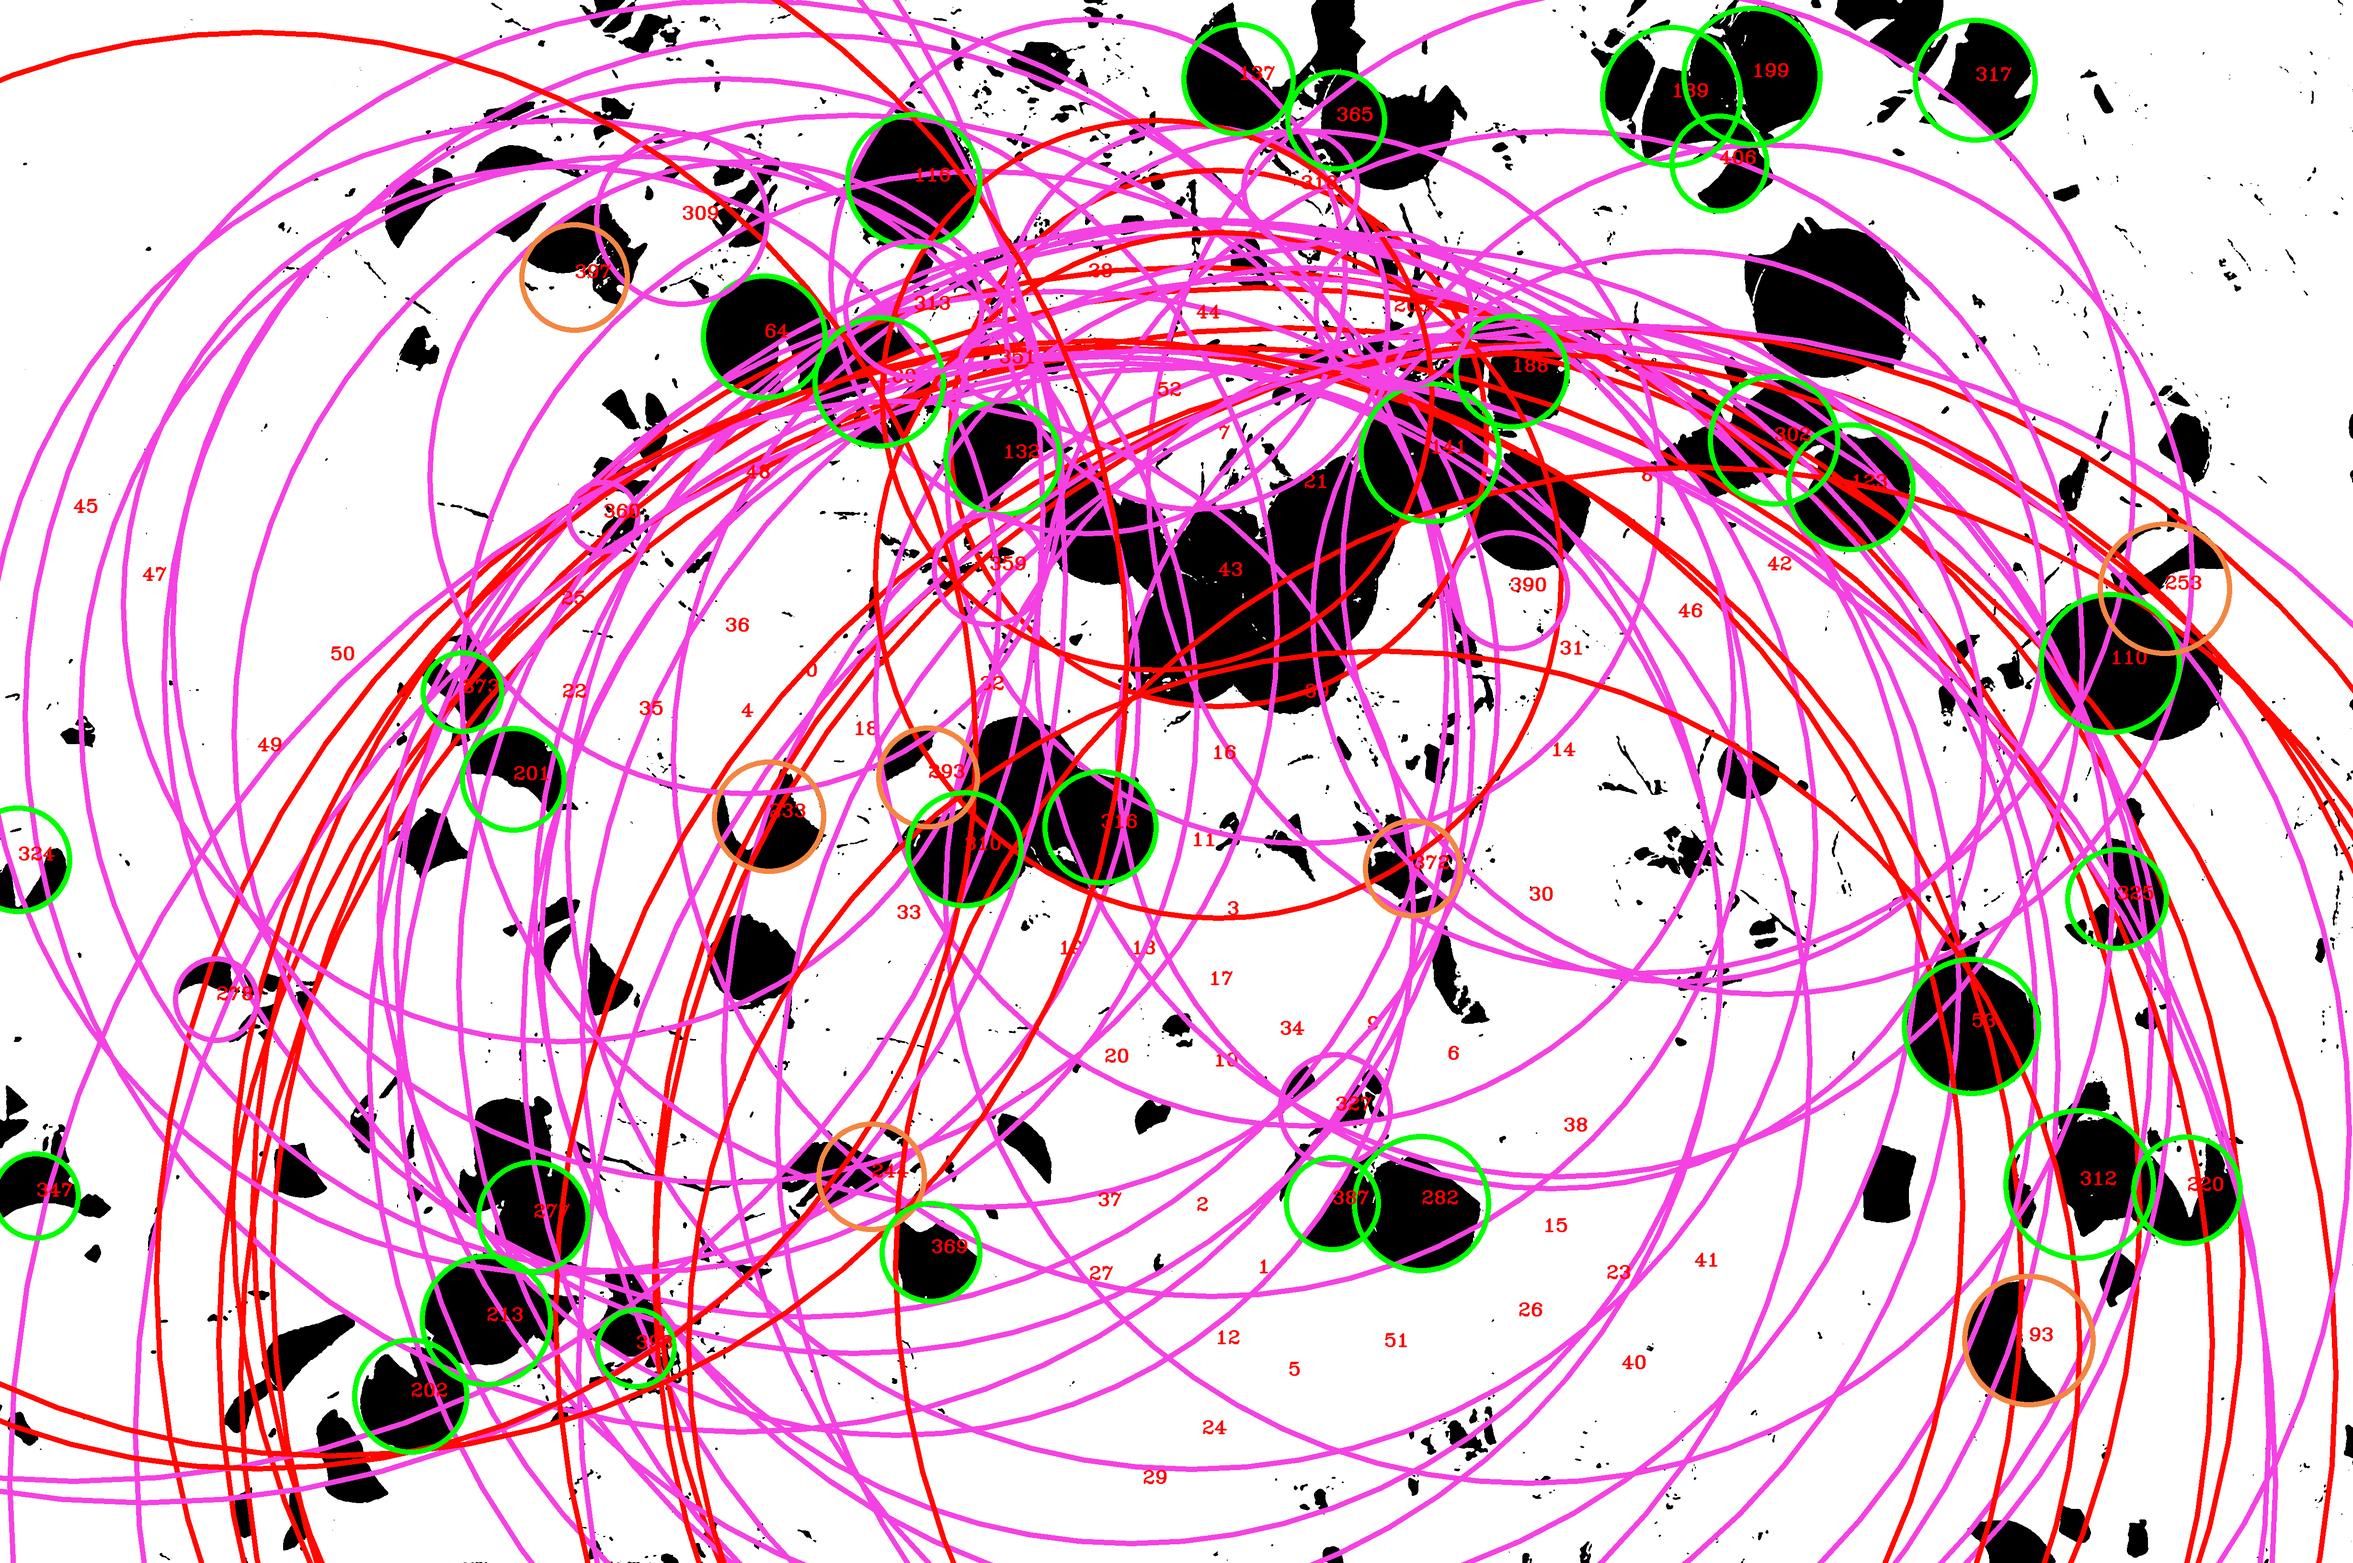
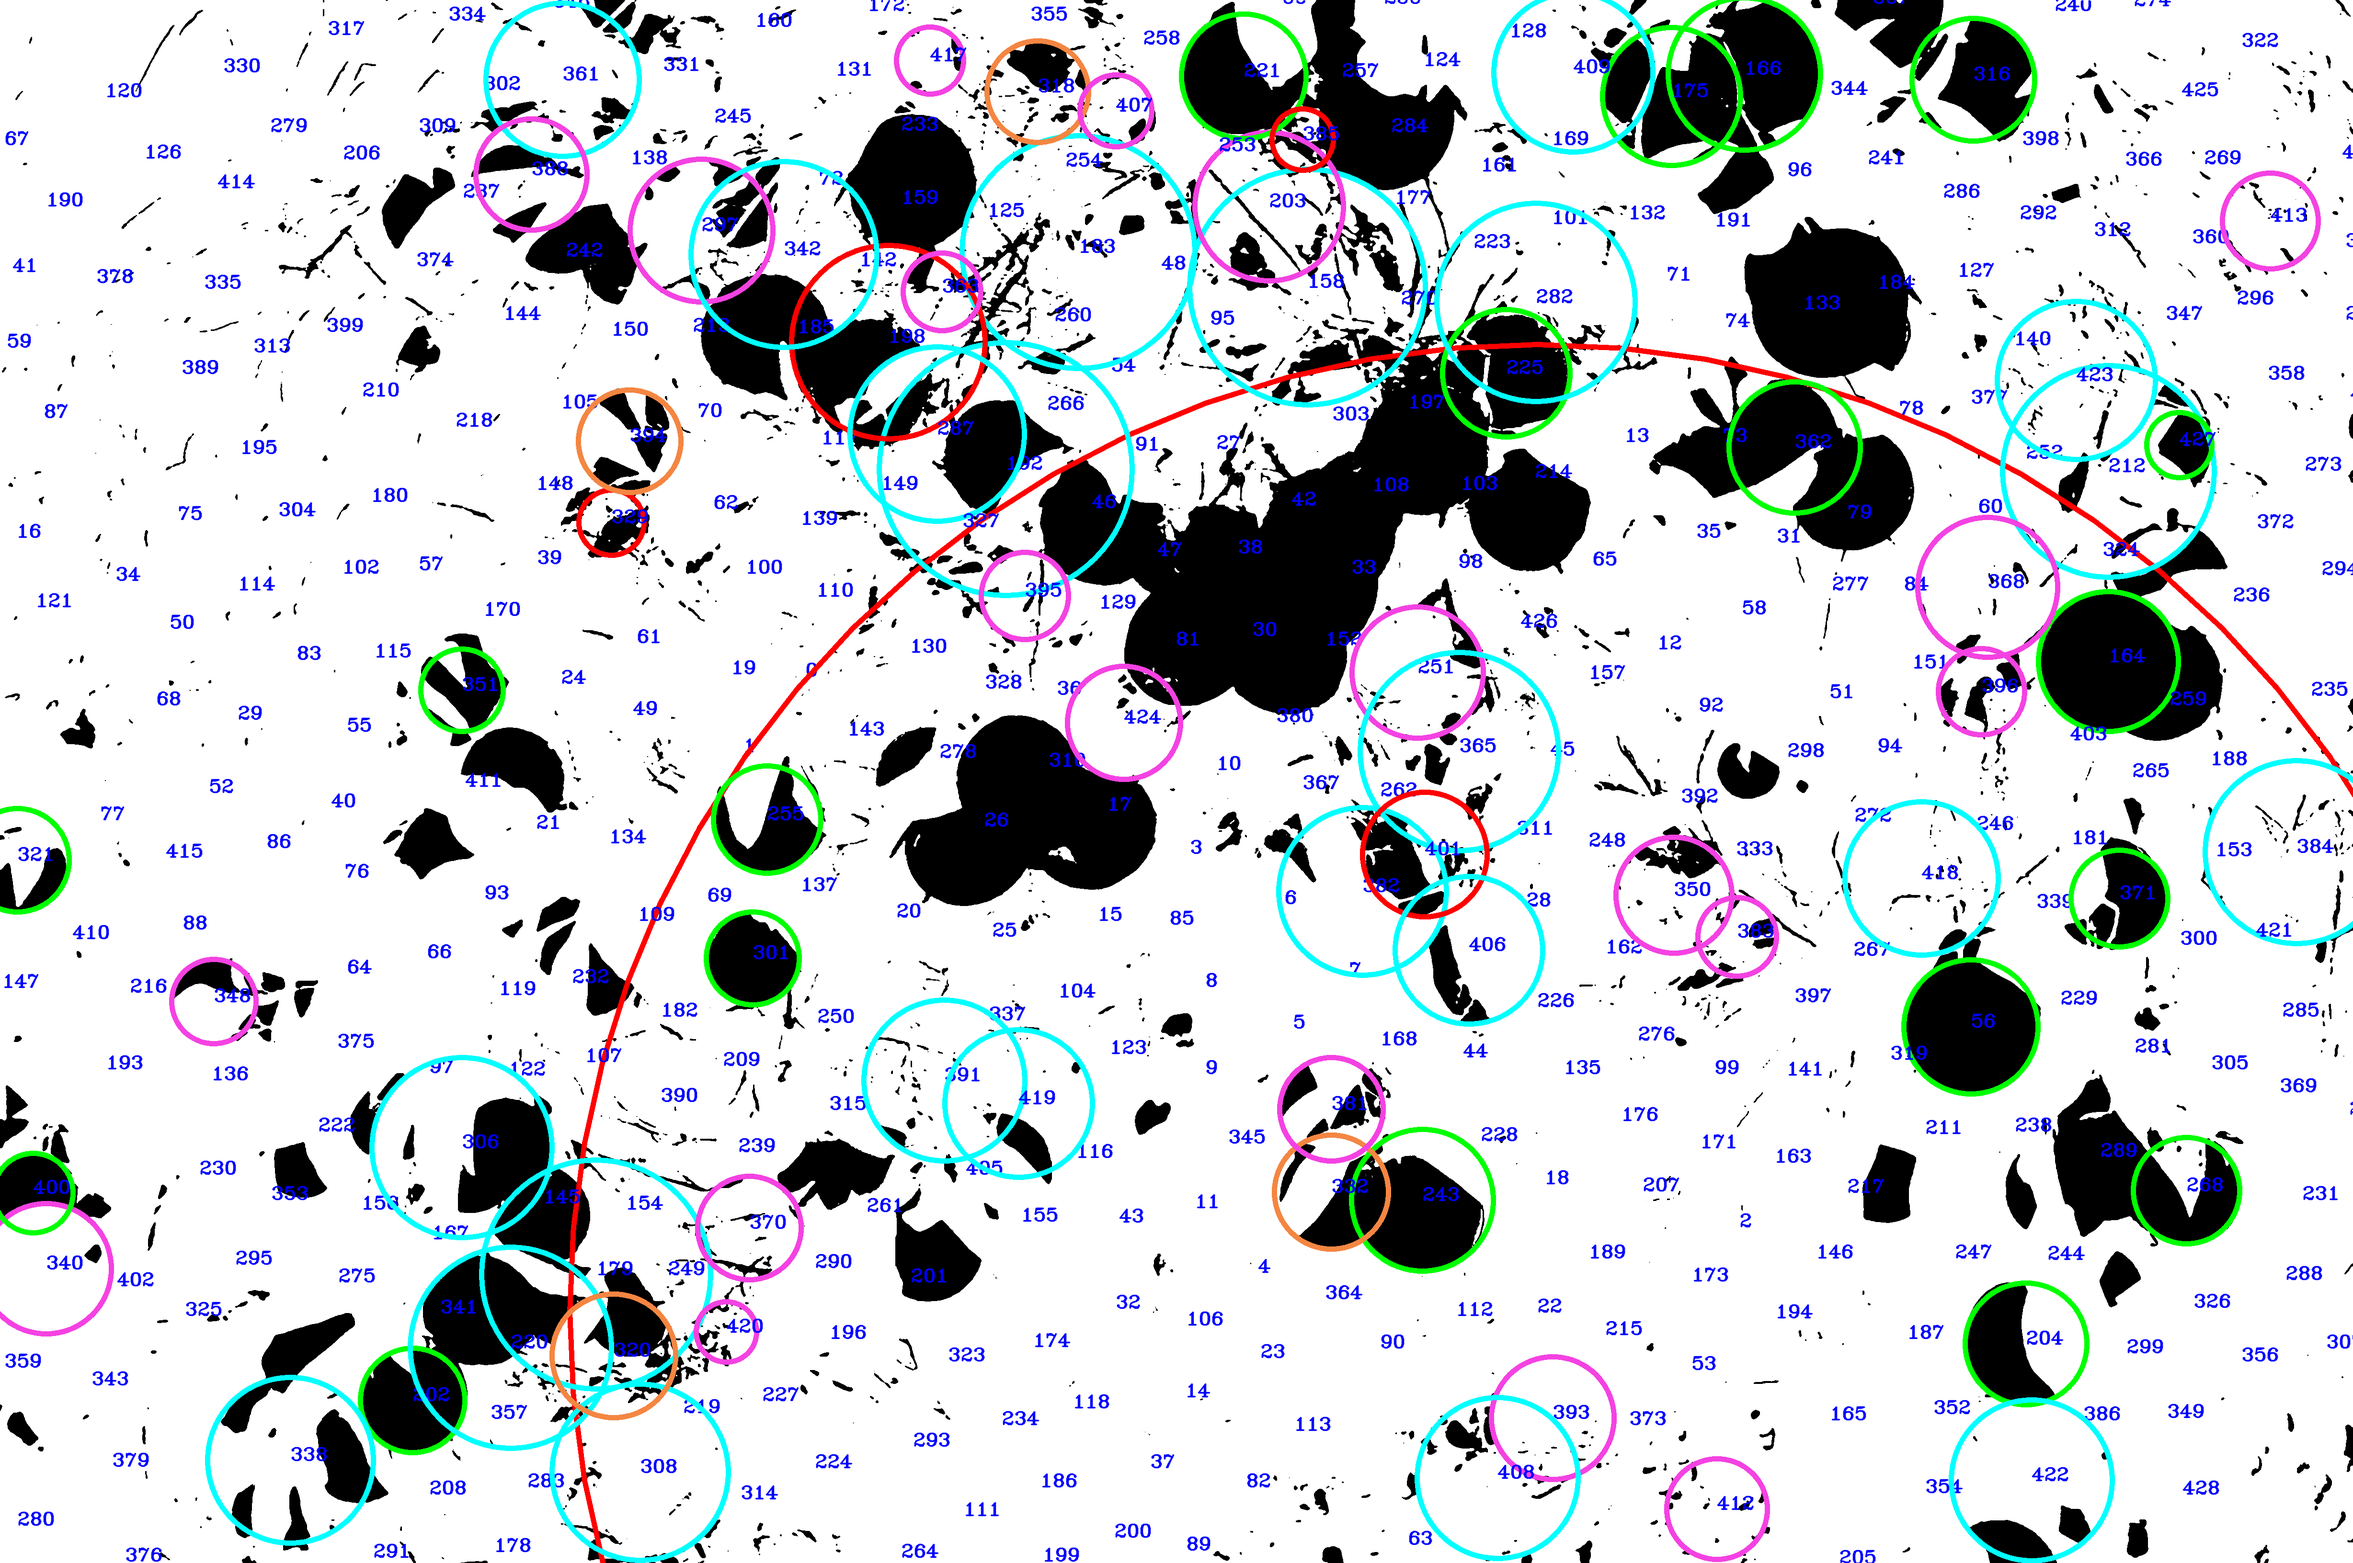
wtf

diff --git a/circles.py b/circles.py
@@ -11,6 +11,8 @@
 import os
 import cv2
 import numpy as np
+from joblib import Parallel, delayed
+import multiprocessing
 
 
 BLUE = (255, 0, 0)
@@ -30,7 +32,7 @@ def circleCount(fname):
     img = cv2.medianBlur(img,5)
     cimg = cv2.cvtColor(img,cv2.COLOR_GRAY2BGR)
 
-    circles = cv2.HoughCircles(img,cv2.HOUGH_GRADIENT,3,150,
+    circles = cv2.HoughCircles(img,cv2.HOUGH_GRADIENT,2.5,150,
                                 param1=100,param2=100, minRadius=0,maxRadius=3000)
 
     circles = np.uint16(np.around(circles))
@@ -117,22 +119,38 @@ def countWhite(mask, img, center, radius, index):
     numOutside = numTotal
 
 
-    lowerbound_out = max(int(center[1]) - radius, 0)
-    upperbound_out = min(center[1] + radius, img.shape[0])
+#    lowerbound_out = max(int(center[1]) - radius, 0)
+#    upperbound_out = min(center[1] + radius, img.shape[0])
+#
+#    lowerbound_in = max(int(center[0]) - radius, 0)
+#    upperbound_in = min(center[0] + radius, img.shape[1])
+#
+#    for k in range(lowerbound_out, upperbound_out):
+#        for i in range(lowerbound_in, upperbound_in):
+#
+#            if (mask[k,i] == 255 and img[k,i] == 0):
+#                numWhite += 1
+#
+#            if (mask[k,i] == 255):
+#                numOutside -= 1
+#
+#
 
-    lowerbound_in = max(int(center[0]) - radius, 0)
-    upperbound_in = min(center[0] + radius, img.shape[1])
 
-    for k in range(lowerbound_out, upperbound_out):
-        for i in range(lowerbound_in, upperbound_in):
+    white[(mask == 255) & (img == 0)] = 255
+    count[(mask == 255) ] = 255
 
-            if (mask[k,i] == 255 and img[k,i] == 0):
-                numWhite += 1
+    unique, counts = numpy.unique(white, return_counts=True)
+    res = dict(zip(unique, counts))
 
-            if (mask[k,i] == 255):
-                numOutside -= 1
+    numWhite = res.get(255)
 
+    unique, counts = numpy.unique(count, return_counts=True)
+    res = dict(zip(unique, counts))
 
+    numInFrame = res.get(255)
+
+    numOutside -= numInFrame
 
     if (numOutside / float(numTotal)*100) > 40:
         print("too much outside of img: ", (numOutside / float(numTotal)*100))
@@ -148,12 +166,25 @@ if __name__ == '__main__':
 
     # imageList = os.listdir("./images/")
 
-    circleCount("citrus1")
-    # circleCount("citrus2")
-    # circleCount("citrus3")
-    # circleCount("citrus4")
-    # circleCount("citrus5")
-    # circleCount("citrus6")
+    imageList = [
+        "citrus1",
+        "citrus2",
+        "citrus3",
+        "citrus4",
+        "citrus5",
+        "citrus6",
+        "citrus7",
+        "citrus8",
+        "orange1"]
+    cpu_count = multiprocessing.cpu_count()
+    res = Parallel(n_jobs=cpu_count)(delayed(circleCount)(k) for k in imageList)
+
+    #circleCount("citrus1")
+    #circleCount("citrus2")
+    #circleCount("citrus3")
+    #circleCount("citrus4")
+    #circleCount("citrus5")
+    #circleCount("citrus6")
     # circleCount("citrus7")
     # circleCount("citrus8")
     # circleCount("orange1")

diff --git a/a2.py b/a2.py
@@ -1,4 +1,4 @@
-#!/usr/bin/python3
+#!/usr/local/bin/python
 
 
 import cv2
